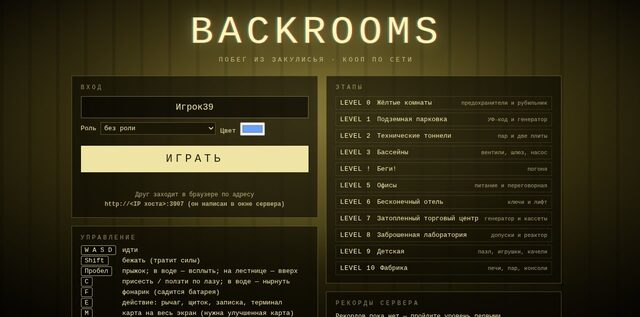
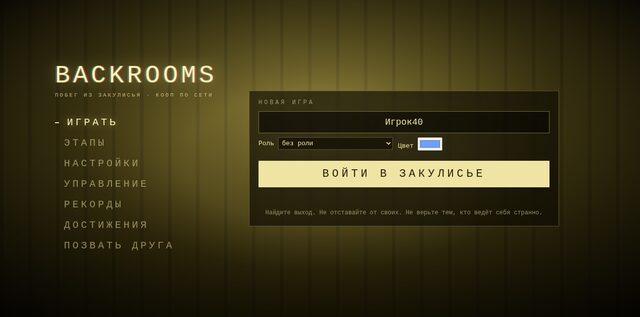
feat(меню): нормальное главное меню с разделами
Вместо длинной страницы из карточек — меню как в игре: слева заголовок
и пункты (Играть, Этапы, Настройки, Управление, Рекорды, Достижения,
Позвать друга), справа открытый раздел. В паузе первый пункт —
«Продолжить», сразу возвращает в игру. На узком экране пункты в ряд.
Статус «Подключение…» сбрасывается после входа.

Claude-Session: https://claude.ai/code/session_01Y6WojNeqeBCBdwq8Qdkv1F

diff --git a/client/index.html b/client/index.html
@@ -67,26 +67,53 @@
 
 <div id="menu">
   <div id="menuBg"></div>
-  <div class="wrap">
-    <h1>BACKROOMS</h1>
-    <div class="sub" id="subtitle">ПОБЕГ ИЗ ЗАКУЛИСЬЯ · КООП ПО СЕТИ</div>
-    <div class="grid">
-      <div>
-        <div class="card">
-          <h4>ВХОД</h4>
+  <div class="mm">
+    <nav class="mm-nav" id="mmNav">
+      <h1>BACKROOMS</h1>
+      <div class="sub" id="subtitle">ПОБЕГ ИЗ ЗАКУЛИСЬЯ · КООП ПО СЕТИ</div>
+      <button data-scr="play" class="on" id="navPlay">ИГРАТЬ</button>
+      <button data-scr="levels">ЭТАПЫ</button>
+      <button data-scr="settings">НАСТРОЙКИ</button>
+      <button data-scr="controls">УПРАВЛЕНИЕ</button>
+      <button data-scr="records">РЕКОРДЫ</button>
+      <button data-scr="achs">ДОСТИЖЕНИЯ</button>
+      <button data-scr="friends">ПОЗВАТЬ ДРУГА</button>
+    </nav>
+    <section class="mm-panel">
+      <div class="card scr on" data-scr="play">
+        <h4 id="playTitle">НОВАЯ ИГРА</h4>
+        <div id="lobbyBox">
           <input type="text" id="name" maxlength="16" placeholder="Ваш ник" autocomplete="off">
           <div class="lobby">
             <label>Роль <select id="role"><option value="">без роли</option><option value="scout">Разведчик: быстрее, миникарта шире</option><option value="mechanic">Механик: переключатели держатся дольше</option><option value="medic">Медик: аптечка на каждом уровне</option></select></label>
             <label>Цвет <input type="color" id="color" value="#6aa0ff"></label>
           </div>
-          <button id="play">ИГРАТЬ</button>
-          <div id="status"></div>
-          <button id="stuck" class="small" style="display:none">Я застрял — вернуться к началу уровня</button>
-          <div id="lan">Друг заходит в браузере по адресу<br><b id="addr"></b></div>
         </div>
-        <div class="card" style="margin-top:16px">
-          <h4>УПРАВЛЕНИЕ</h4>
-          <div class="keys">
+        <button id="play">ВОЙТИ В ЗАКУЛИСЬЕ</button>
+        <div id="status"></div>
+        <button id="stuck" class="small" style="display:none">Я застрял — вернуться к началу уровня</button>
+        <div class="hint" id="playHint">Найдите выход. Не отставайте от своих. Не верьте тем, кто ведёт себя странно.</div>
+      </div>
+      <div class="card scr" data-scr="levels">
+        <h4>ЭТАПЫ</h4>
+        <div class="lvls" id="lvlList"></div>
+      </div>
+      <div class="card scr" data-scr="settings">
+        <h4>НАСТРОЙКИ</h4>
+        <div class="set">
+            <label for="sSens">Мышь</label><input type="range" id="sSens" min="0.4" max="2.5" step="0.05"><output id="oSens"></output>
+            <label for="sFov">Угол обзора</label><input type="range" id="sFov" min="60" max="100" step="1"><output id="oFov"></output>
+            <label for="sVol">Громкость</label><input type="range" id="sVol" min="0" max="1" step="0.05"><output id="oVol"></output>
+            <label for="sBr">Яркость</label><input type="range" id="sBr" min="0.7" max="1.8" step="0.05"><output id="oBr"></output>
+            <label for="sPreset">Качество</label><select id="sPreset"><option value="low">Низкое</option><option value="medium">Среднее</option><option value="high">Высокое</option><option value="ultra">Ультра</option></select><span></span>
+          </div>
+          <div class="checks" id="checks"></div>
+          <h4 style="margin-top:14px">КЛАВИШИ <small>(клик — назначить)</small></h4>
+          <div class="binds" id="binds"></div>
+      </div>
+      <div class="card scr" data-scr="controls">
+        <h4>УПРАВЛЕНИЕ</h4>
+        <div class="keys">
             <span><kbd>W A S D</kbd></span><span>идти</span>
             <span><kbd>Shift</kbd></span><span>бежать (тратит силы)</span>
             <span><kbd>Пробел</kbd></span><span>прыжок; в воде — всплыть; на лестнице — вверх</span>
@@ -109,36 +136,24 @@
             <span>🎮</span><span>геймпад: стики — ход и взгляд, A — прыжок, B — присесть, X — действие, Y — фонарь, RB — бег</span>
             <span><kbd>Esc</kbd></span><span>пауза (игра идёт дальше)</span>
           </div>
-        </div>
       </div>
-      <div>
-        <div class="card">
-          <h4>ЭТАПЫ</h4>
-          <div class="lvls" id="lvlList"></div>
-        </div>
-        <div class="card" style="margin-top:16px">
-          <h4>РЕКОРДЫ СЕРВЕРА</h4>
-          <div class="records" id="records">загрузка…</div>
-        </div>
-        <div class="card" style="margin-top:16px">
-          <h4>ДОСТИЖЕНИЯ</h4>
-          <div class="achs" id="achList"></div>
-        </div>
-        <div class="card" style="margin-top:16px">
-          <h4>НАСТРОЙКИ</h4>
-          <div class="set">
-            <label for="sSens">Мышь</label><input type="range" id="sSens" min="0.4" max="2.5" step="0.05"><output id="oSens"></output>
-            <label for="sFov">Угол обзора</label><input type="range" id="sFov" min="60" max="100" step="1"><output id="oFov"></output>
-            <label for="sVol">Громкость</label><input type="range" id="sVol" min="0" max="1" step="0.05"><output id="oVol"></output>
-            <label for="sBr">Яркость</label><input type="range" id="sBr" min="0.7" max="1.8" step="0.05"><output id="oBr"></output>
-            <label for="sPreset">Качество</label><select id="sPreset"><option value="low">Низкое</option><option value="medium">Среднее</option><option value="high">Высокое</option><option value="ultra">Ультра</option></select><span></span>
-          </div>
-          <div class="checks" id="checks"></div>
-          <h4 style="margin-top:14px">КЛАВИШИ <small>(клик — назначить)</small></h4>
-          <div class="binds" id="binds"></div>
-        </div>
+      <div class="card scr" data-scr="records">
+        <h4>РЕКОРДЫ СЕРВЕРА</h4>
+        <div class="records" id="records">загрузка…</div>
       </div>
-    </div>
+      <div class="card scr" data-scr="achs">
+        <h4>ДОСТИЖЕНИЯ</h4>
+        <div class="achs" id="achList"></div>
+      </div>
+      <div class="card scr" data-scr="friends">
+        <h4>ПОЗВАТЬ ДРУГА</h4>
+        <ol class="steps">
+          <li>Друг должен быть в той же сети: один роутер или Wi-Fi.</li>
+          <li>Отправьте ему адрес — он открывает его в браузере, ничего ставить не нужно:<div id="lan"><b id="addr"></b></div></li>
+          <li>Не подключается? При первом запуске Windows спрашивает про брандмауэр — разрешите Node.js доступ в частных сетях.</li>
+        </ol>
+      </div>
+    </section>
   </div>
 </div>
 

diff --git a/client/css/style.css b/client/css/style.css
@@ -88,13 +88,38 @@ kbd, #prompt b { font: inherit; border: 1px solid rgba(255,240,150,.7); padding:
   animation: bgflick 7s infinite; }
 #menuBg::after { content: ""; position: absolute; inset: 0; background: radial-gradient(ellipse at center, rgba(0,0,0,0) 30%, rgba(0,0,0,.9) 100%); }
 @keyframes bgflick { 0%,91%,94%,100% { filter: brightness(1); } 92% { filter: brightness(.55); } 93% { filter: brightness(1.15); } 95% { filter: brightness(.7); } }
-.wrap { width: min(980px, 96vw); margin: auto; }
-h1 { margin: 0; font-size: clamp(38px, 8vw, 78px); letter-spacing: .12em; font-weight: normal; text-align: center; color: var(--y2);
+/* Главное меню: слева заголовок и пункты, справа открытый раздел */
+.mm { display: grid; grid-template-columns: minmax(260px, 340px) minmax(0, 620px); gap: 48px; align-items: center;
+  width: min(1060px, 100%); margin: auto; }
+.mm-nav { display: flex; flex-direction: column; align-items: flex-start; }
+.mm-nav button { font: inherit; font-size: 20px; letter-spacing: 5px; color: var(--dim); background: none; border: 0;
+  padding: 9px 0 9px 18px; cursor: pointer; position: relative; transition: color .15s, padding .15s; text-align: left; }
+.mm-nav button::before { content: ""; position: absolute; left: 0; top: 50%; width: 8px; height: 2px; background: var(--y);
+  transform: scaleX(0); transform-origin: left; transition: transform .15s; }
+.mm-nav button:hover, .mm-nav button:focus-visible { color: var(--y2); padding-left: 24px; outline: none; }
+.mm-nav button.on { color: var(--y2); padding-left: 24px; text-shadow: 0 0 14px rgba(255,240,150,.45); }
+.mm-nav button.on::before, .mm-nav button:hover::before { transform: scaleX(1); }
+.mm-nav button.primary { color: #231d06; background: var(--y); padding: 10px 22px; margin-bottom: 8px; }
+.mm-nav button.primary::before { display: none; }
+.mm-panel { max-height: calc(100vh - 40px); overflow: hidden auto; }
+.scr { display: none; animation: scrIn .2s ease-out; }
+.scr.on { display: block; }
+@keyframes scrIn { from { opacity: 0; transform: translateX(10px); } to { opacity: 1; transform: none; } }
+.hint { margin-top: 14px; font-size: 12px; line-height: 1.6; opacity: .55; text-align: center; }
+.steps { margin: 0; padding-left: 20px; font-size: 14px; line-height: 1.7; }
+.steps li { margin-bottom: 10px; }
+@media (max-width: 820px) {
+  .mm { grid-template-columns: 1fr; gap: 16px; }
+  .mm-nav { flex-direction: row; flex-wrap: wrap; align-items: center; }
+  .mm-nav h1, .mm-nav .sub { width: 100%; text-align: center; }
+  .mm-nav button { font-size: 14px; letter-spacing: 2px; padding: 6px 10px; }
+  .mm-nav button::before { display: none; }
+  .mm-panel { max-height: none; }
+}
+h1 { margin: 0; font-size: clamp(34px, 4.2vw, 50px); white-space: nowrap; letter-spacing: .12em; font-weight: normal; color: var(--y2);
   text-shadow: 0 0 28px rgba(255,240,150,.4), 3px 0 rgba(255,60,40,.35), -3px 0 rgba(60,200,255,.3); animation: glitch 5s infinite; }
 @keyframes glitch { 0%,92%,100% { transform: none; } 93% { transform: translateX(-5px) skewX(6deg); } 95% { transform: translateX(6px); } 97% { transform: none; } }
-.sub { text-align: center; letter-spacing: 4px; font-size: 13px; opacity: .7; margin: 4px 0 24px; }
-.grid { display: grid; grid-template-columns: 1.05fr 1fr; gap: 16px; }
-@media (max-width: 820px) { .grid { grid-template-columns: 1fr; } }
+.sub { white-space: nowrap; letter-spacing: 3px; font-size: 11px; opacity: .7; margin: 4px 0 28px; }
 .card { background: rgba(10,8,2,.62); border: 1px solid var(--line); padding: 16px 18px; backdrop-filter: blur(3px); }
 .card h4 { margin: 0 0 10px; font-weight: normal; font-size: 12px; letter-spacing: 4px; color: var(--dim); }
 #menu input[type=text] { width: 100%; padding: 11px 12px; font: inherit; font-size: 18px; text-align: center; background: rgba(0,0,0,.5);
@@ -104,7 +129,7 @@ h1 { margin: 0; font-size: clamp(38px, 8vw, 78px); letter-spacing: .12em; font-w
   background: var(--y); color: #231d06; border: 0; transition: transform .1s, background .1s; }
 #play:hover { background: var(--y2); transform: translateY(-1px); }
 #status { margin-top: 10px; min-height: 18px; font-size: 13px; color: #ff9d86; text-align: center; }
-#lan { margin-top: 8px; font-size: 12px; line-height: 1.6; opacity: .7; text-align: center; }
+#lan { margin: 8px 0 4px; padding: 10px; font-size: 16px; text-align: center; background: rgba(0,0,0,.45); border: 1px dashed var(--line); user-select: text; }
 .lvls { display: grid; gap: 6px; }
 .lv-row { display: flex; align-items: center; gap: 10px; font-size: 13px; padding: 5px 8px; border: 1px solid rgba(255,240,150,.12); }
 .lv-row b { min-width: 64px; color: var(--y2); font-weight: normal; letter-spacing: 1px; }

diff --git a/client/js/ui/menu.js b/client/js/ui/menu.js
@@ -13,7 +13,7 @@ import { closeBigMap } from './maps.js';
 const nameInput = $('name');
 nameInput.value = localStorage.getItem('br_name') || `Игрок${Math.floor(rand(10, 99))}`;
 
-export function beginPlay() { S.started = true; $('menu').style.display = 'none'; $('hud').style.display = 'block'; }
+export function beginPlay() { S.started = true; setStatus(''); $('menu').style.display = 'none'; $('hud').style.display = 'block'; }
 function lockPointer() { renderer.domElement.requestPointerLock(); }
 
 $('play').addEventListener('click', () => {
@@ -32,12 +32,26 @@ document.addEventListener('pointerlockchange', () => {
   if (!S.locked && !S.ghostCursor) closeBigMap();
   if (social.chatOpen || social.asked || S.ghostCursor || S.adminOpen) return; // курсор нужен для чата/карты/панели — это не пауза
   if (S.started && S.joined && !S.locked) {
-    $('subtitle').textContent = 'ПАУЗА · КЛИК, ЧТОБЫ ПРОДОЛЖИТЬ (существо не ждёт!)';
+    $('subtitle').textContent = 'ПАУЗА · СУЩЕСТВО НЕ ЖДЁТ';
+    $('playTitle').textContent = 'ПАУЗА';
+    $('lobbyBox').style.display = 'none';
+    $('playHint').textContent = 'Игра для остальных продолжается.';
     $('play').textContent = 'ПРОДОЛЖИТЬ';
+    $('navPlay').textContent = 'ПРОДОЛЖИТЬ';
+    $('navPlay').classList.add('primary');
     $('stuck').style.display = 'block';
+    showScreen('play');
     $('menu').style.display = 'flex';
   }
 });
+
+// Пункты меню слева: показать раздел справа. «Продолжить» в паузе сразу возвращает в игру.
+function showScreen(name) {
+  for (const el of document.querySelectorAll('#menu [data-scr]')) el.classList.toggle('on', el.dataset.scr === name);
+}
+for (const b of document.querySelectorAll('#mmNav button')) {
+  b.addEventListener('click', () => { if (b.id === 'navPlay' && S.started) $('play').click(); else showScreen(b.dataset.scr); });
+}
 document.addEventListener('mousemove', (e) => {
   if (!S.locked) return;
   me.yaw -= e.movementX * 0.0022 * settings.sens;

diff --git a/README.md b/README.md
@@ -121,7 +121,7 @@ cd backrooms-lan
 <td width="50%"><img src="docs/media/hud.jpg" alt="Интерфейс в игре"></td>
 </tr>
 <tr>
-<td align="center"><sub>Меню: роль, цвет, этапы, рекорды</sub></td>
+<td align="center"><sub>Главное меню: игра, этапы, настройки, рекорды</sub></td>
 <td align="center"><sub>В игре: цели, миникарта, выносливость, фонарь, шумомер</sub></td>
 </tr>
 </table>
